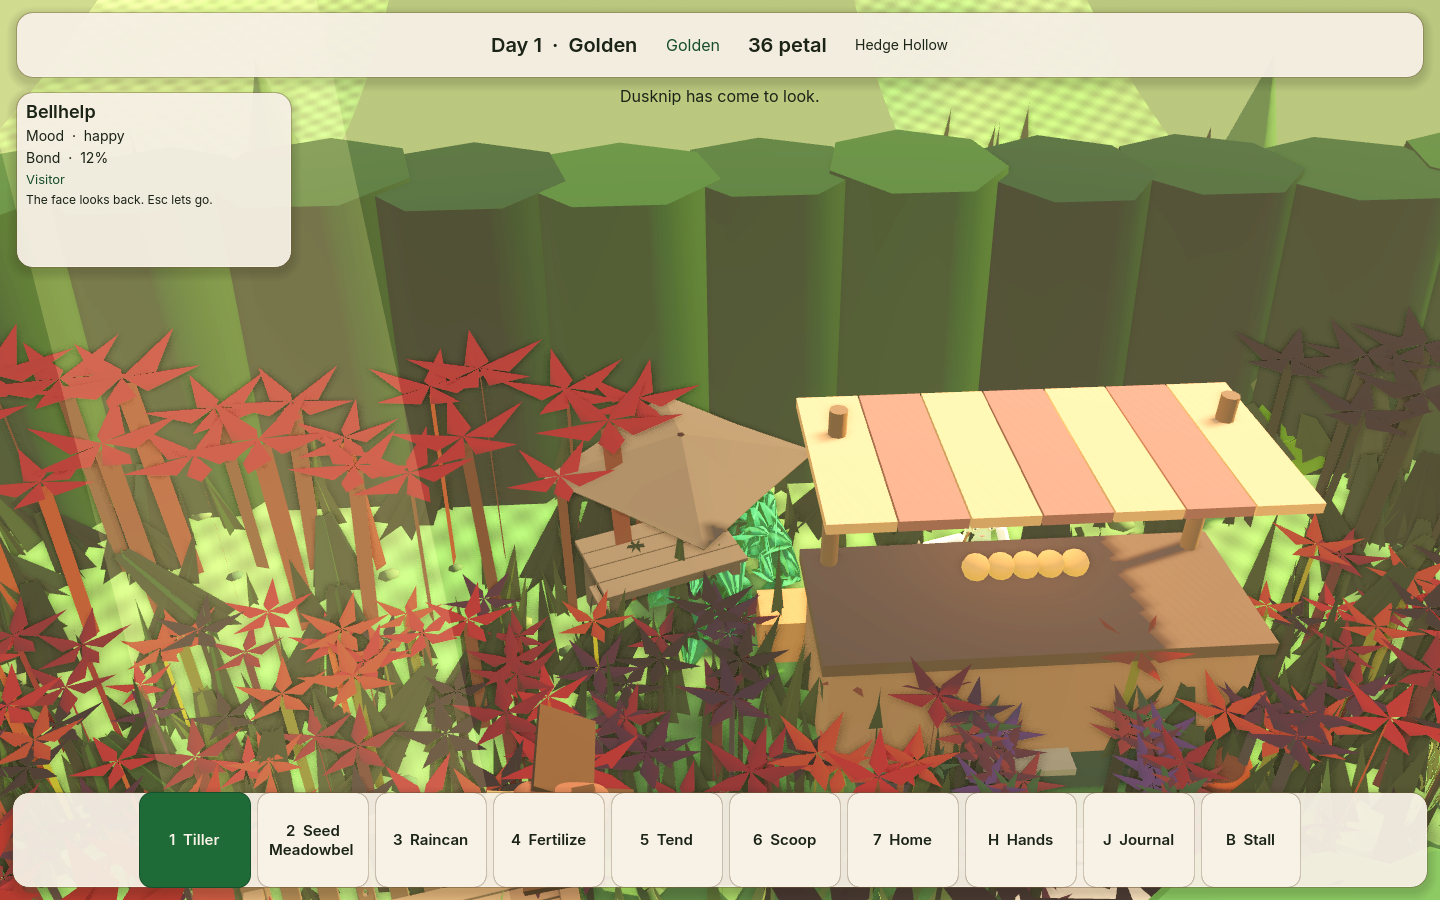
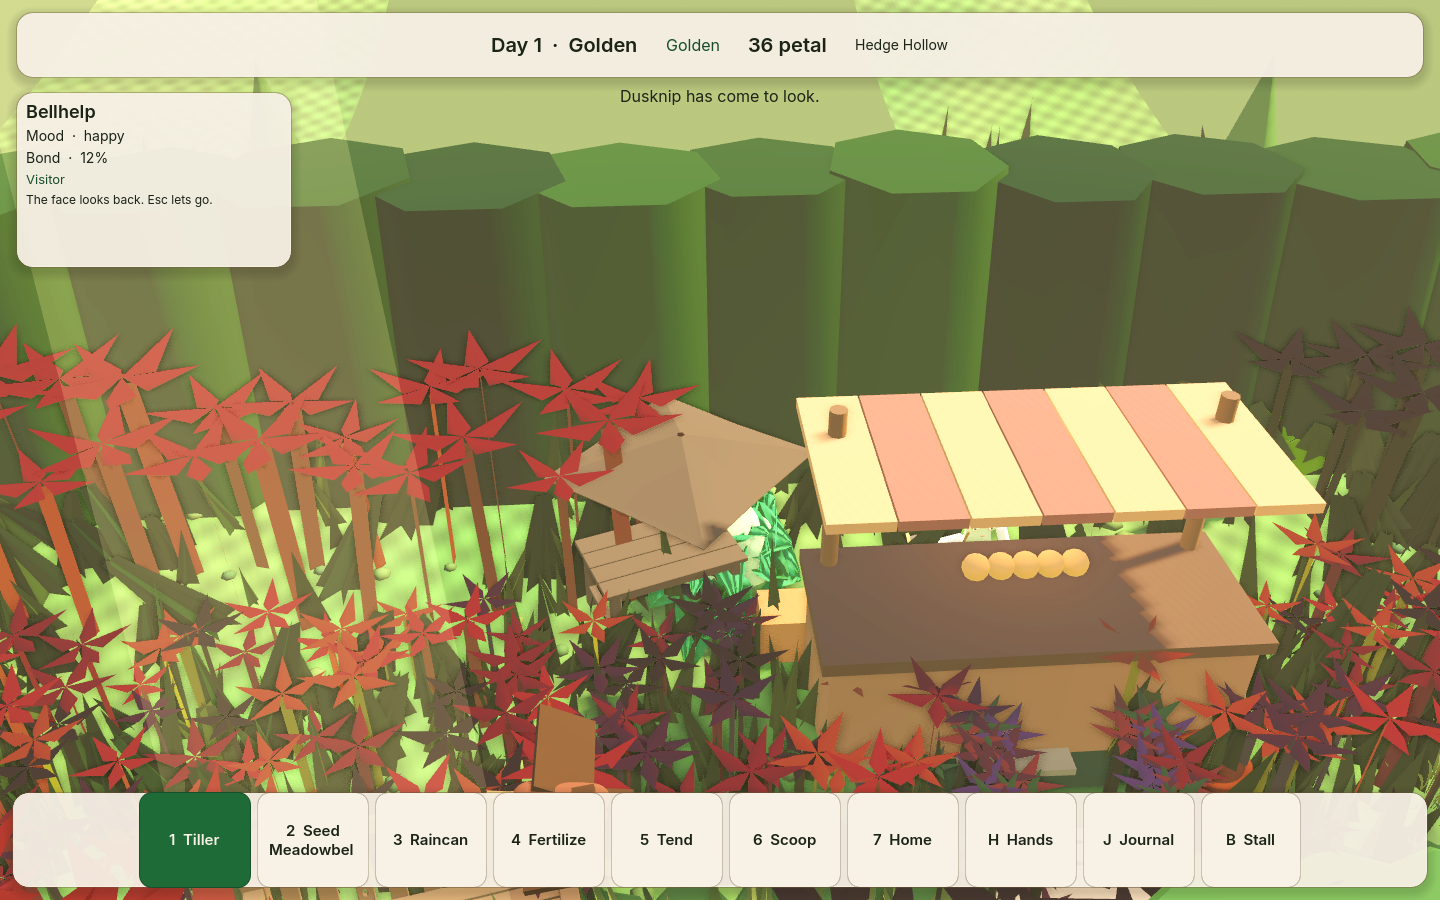
Record PETAL-01 foundation inspect on the 08 build.
7d5097e face card, Space rest, and crate_yields are already
merged. Recapture the inspect card and log FOUNDATION_OK plus
PETAL_FACE_SHOT_OK. Keep the merged jelly; 01's tip would drop
feel. Baseline leak warnings remain.

diff --git a/docs/PETAL_CAMPAIGN_STATE.md b/docs/PETAL_CAMPAIGN_STATE.md
@@ -32,6 +32,8 @@ Keys: **M** vale, **C** town. Save: `crate_yields`, `parish`, `town`, `region`.
 
 Playable canonical build. Kenney grove (`scripts/main.gd`, `scripts/sim/petal_*`, `tests/smoke.gd`) and `game/` stay duplicate-legacy.
 
+01 foundation (`7d5097e`, PR #6): inspect / Space rest / `crate_yields` already on 08. Did not replace merged `jelly.gd` with 01's tip (that would drop JellyFeel). `FOUNDATION_OK` (bus, yield save, inspect/clear) `SYSTEMS_OK` `PETAL_RULES_OK`. `PETAL_FACE_SHOT_OK` recaptured here: `wave1_face.png` (card Bellhelp, mood happy, bond 12%, Visitor; body under stall roof). Kenney `tests/smoke.gd` not used as a live check. Baseline leak warnings remain (`FOUNDATION_OK` also logs `!is_inside_tree()` on jelly setup plus 2 ObjectDB leaks). Qwen3-VL unused.
+
 05 kettle (`b5b90a6`, PR #7): mill APIs already on 08. `SYSTEMS_OK` mill cap-3 recover on this tree. `PETAL_KETTLE_SHOT_OK` recaptured here: `docs/screenshots/kettle_brew.png` (porch steam) and `kettle_crate.png` (stall: Hedge tea sits on the crate, Sell 22 (1)). Qwen3-VL unused.
 
 06 town (`f4c63d3`, PR #9): `town.json` / `town_sim.gd` / `test_town.gd` match the tip. `TOWN_OK` (promote/demote ids), `SYSTEMS_OK`, `PETAL_RULES_OK`. `PETAL_TOWN_SHOT_OK` recaptured here: `town_park.png` (Grove Park sign, lawn, benches, no bodies) and `town_parish.png` (Town folk 7, Lane 3/6, Park open · 2, Layers household 1 · individual 4 · district 0, Near Reed/Moss/Lawn still no body). Catalog Grove Park stays `active: false`.
@@ -42,7 +44,7 @@ Playable canonical build. Kenney grove (`scripts/main.gd`, `scripts/sim/petal_*`
 
 ## Tests (`29e278b`, Godot 4.8-dev6 llvmpipe, dummy ALSA)
 
-`PETAL_RULES_OK` `SYSTEMS_OK` `PETAL_CONTRACTS_OK` `FOUNDATION_OK` `JELLY_FEEL_OK` `RESIDENT_LIFE_OK` `TOWN_OK` `REGION_OK` `PETAL_QA_SCRIPTS_OK` `PETAL_INTEGRATE_OK` `PETAL_SELFPLAY_OK` `PETAL_SMOKE_OK` `JELLY_PLAY_OK` `PETAL_KETTLE_SHOT_OK` `PETAL_TOWN_SHOT_OK` `PETAL_VALE_SHOT_OK`
+`PETAL_RULES_OK` `SYSTEMS_OK` `PETAL_CONTRACTS_OK` `FOUNDATION_OK` `JELLY_FEEL_OK` `RESIDENT_LIFE_OK` `TOWN_OK` `REGION_OK` `PETAL_QA_SCRIPTS_OK` `PETAL_INTEGRATE_OK` `PETAL_SELFPLAY_OK` `PETAL_SMOKE_OK` `JELLY_PLAY_OK` `PETAL_KETTLE_SHOT_OK` `PETAL_TOWN_SHOT_OK` `PETAL_VALE_SHOT_OK` `PETAL_FACE_SHOT_OK`
 
 Qwen3-VL is not operational. Frames under `docs/screenshots/`. Baseline leak warnings remain.
 

diff --git a/docs/lanes/08.md b/docs/lanes/08.md
@@ -18,6 +18,7 @@
   - `PETAL_INTEGRATE_OK` pass
   - `PETAL_SELFPLAY_OK` pass
   - `PETAL_SMOKE_OK` pass
+  - `PETAL_FACE_SHOT_OK` pass on 08 (`7d5097e` inspect card)
   - `JELLY_PLAY_OK` pass on 08 (`c3f55dd`; overhead land still missed the body)
   - `PETAL_KETTLE_SHOT_OK` pass on 08 (`b5b90a6` kettle chain)
   - `PETAL_TOWN_SHOT_OK` pass on 08 (`f4c63d3` Grove Park + promote/demote)
